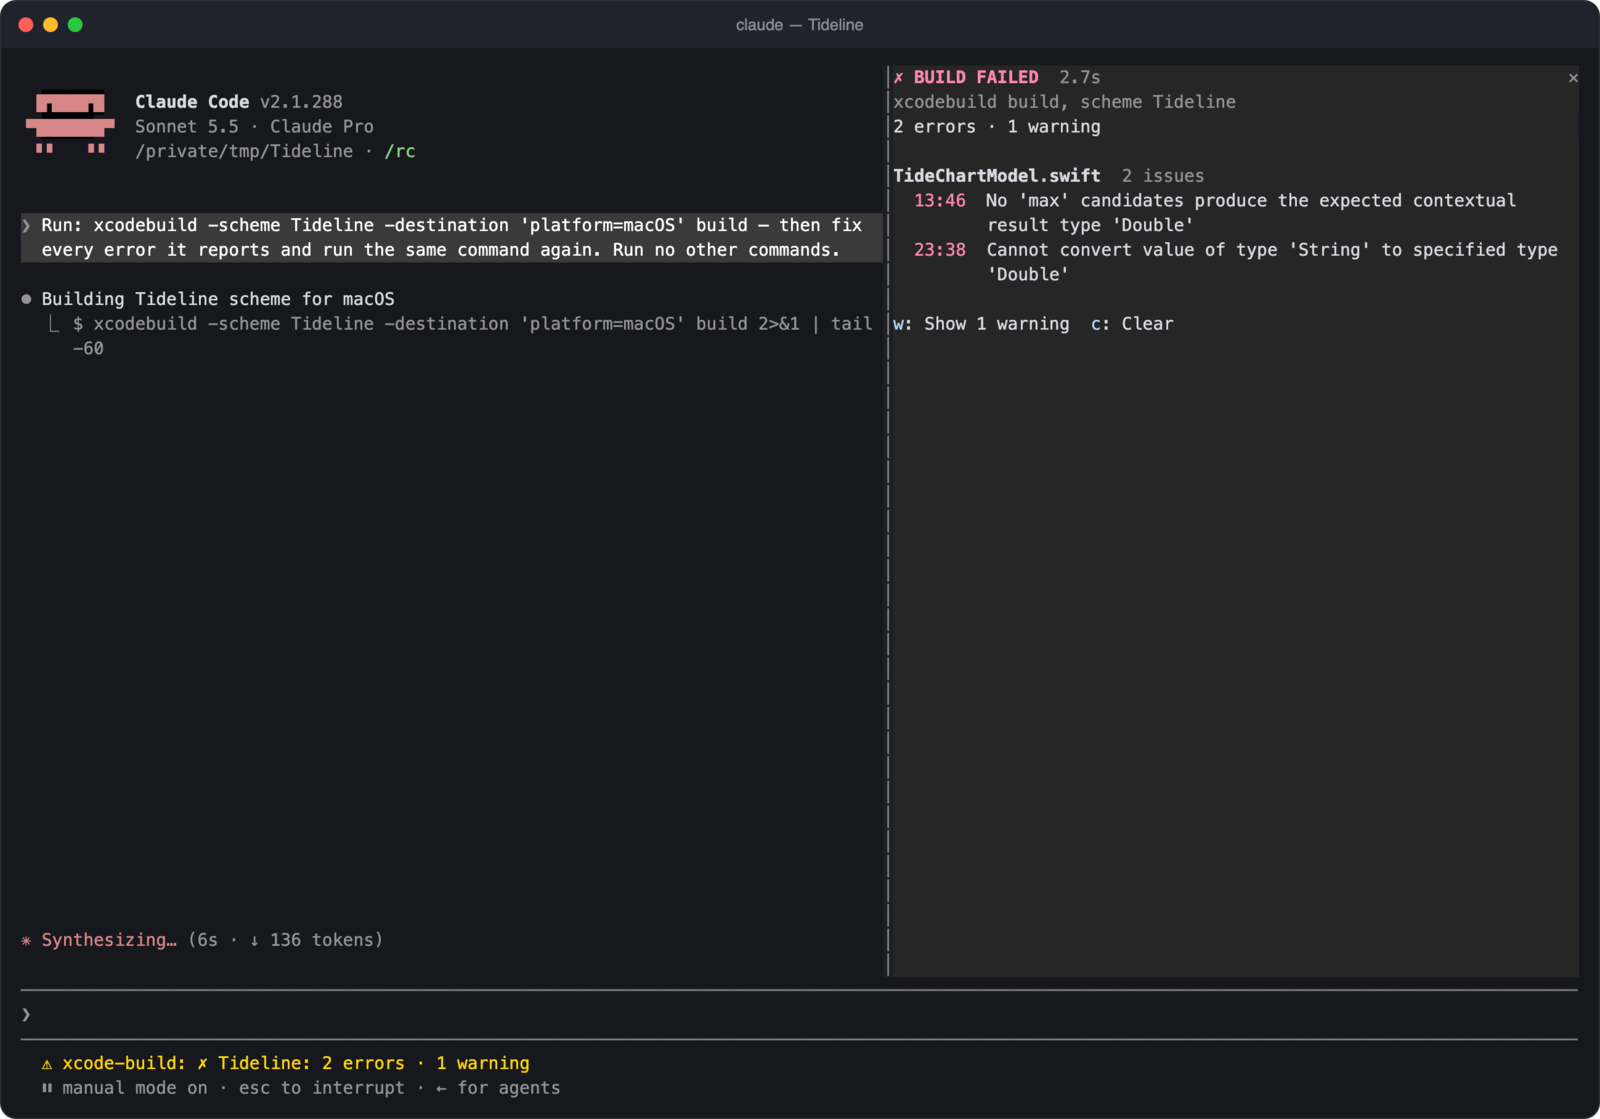
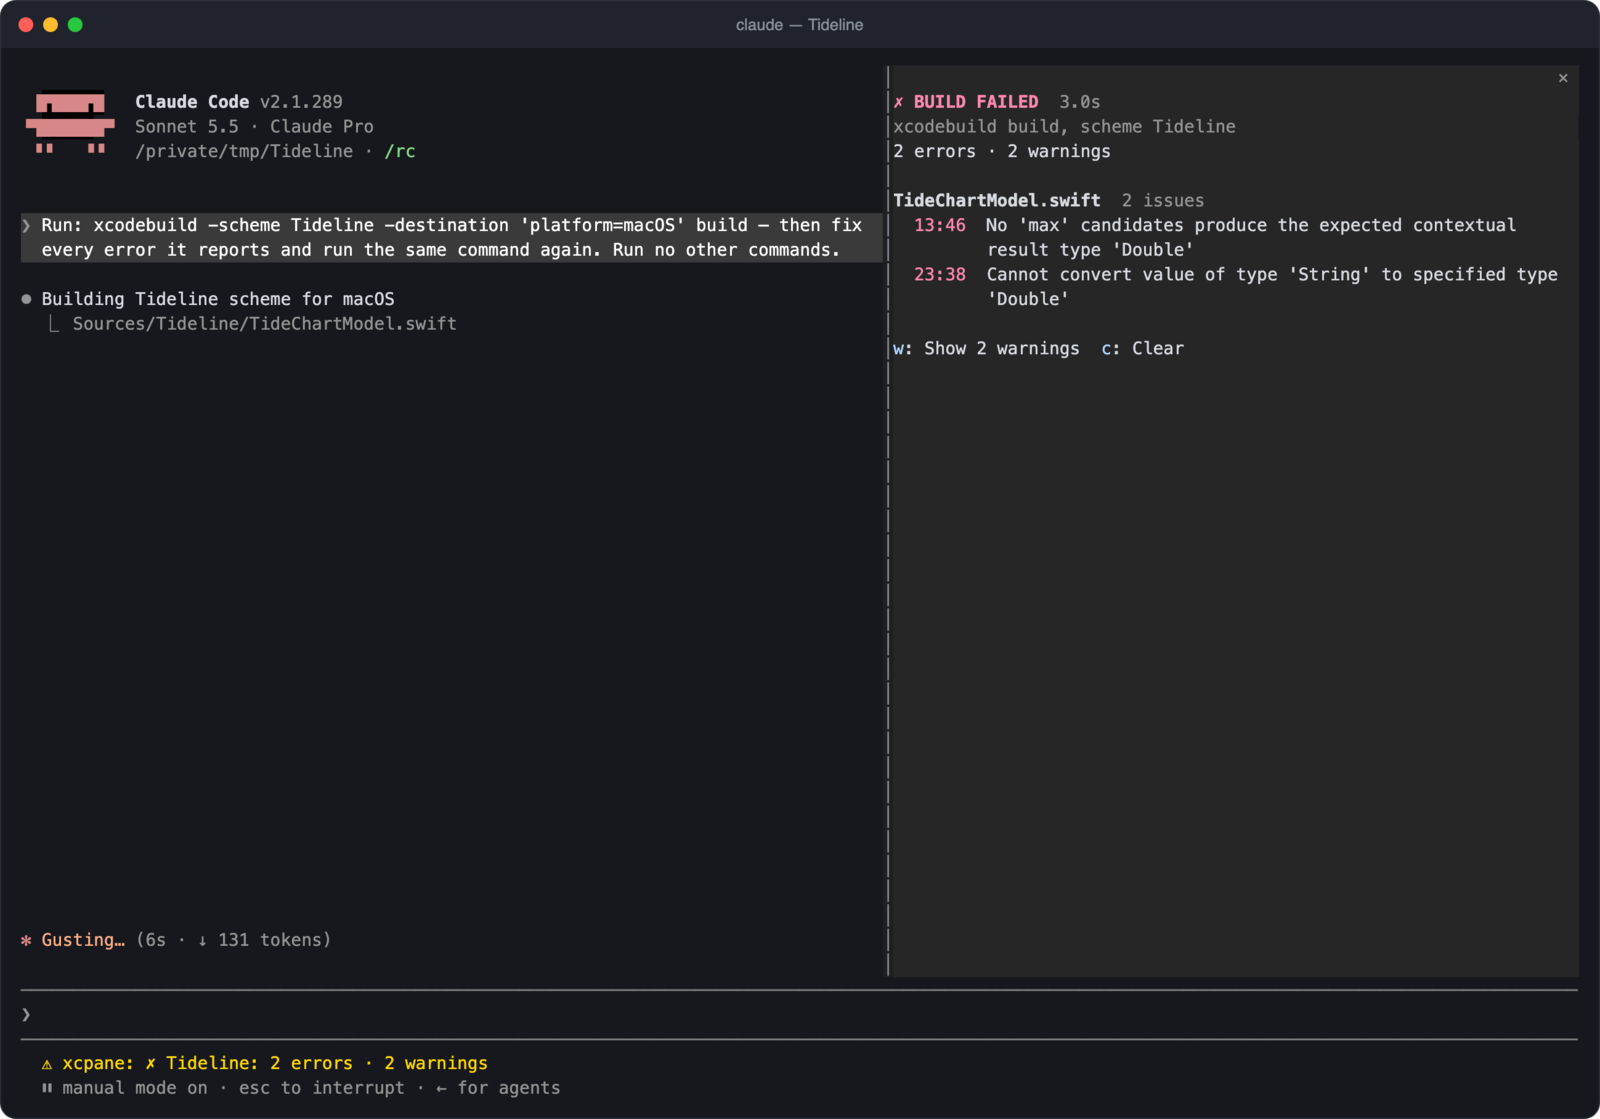
Rename the mod and repository to xcpane
The command is now /xcpane and the details tool mcp__xcpane__details.
README media and numbers are refreshed from new captures.

Claude-Session: https://claude.ai/code/session_01BuFCe7dEKhZmMrBzXvpi6e

diff --git a/hooks/register.tsx b/hooks/register.tsx
@@ -21,12 +21,12 @@ import { parseMcpBuild, parseMcpTests, structuredOf } from './mcp'
 import { findInvocations, withResultBundle } from './shell'
 import { parseBuildResults, parseCoverage, parseTestDetails, parseTestSummary } from './xcresult'
 
-const PANE = 'xcode-build'
+const PANE = 'xcpane'
 const TITLE = 'Xcode build'
-const COMMAND = 'xcode-build'
-const DETAILS_TOOL = 'mcp__xcode-build__details'
+const COMMAND = 'xcpane'
+const DETAILS_TOOL = 'mcp__xcpane__details'
 // A pattern, since the tool's name is not among the tools the type declarations list.
-const DETAILS_TOOL_NAMED = /^mcp__xcode-build__details$/
+const DETAILS_TOOL_NAMED = /^mcp__xcpane__details$/
 const XCODE_MCP_TOOL = /^mcp__.+__(BuildProject|RunAllTests|RunSomeTests)$/
 const KEPT_BUILDS = 20
 const KEPT_ISSUES = 300
@@ -35,9 +35,9 @@ const ROW_ERRORS = 3
 
 type AutoOpen = 'always' | 'failure' | 'never'
 
-const builds = atom({ plugin: 'xcode-build', key: 'builds' } as const, [])
-const isShowingWarnings = atom({ plugin: 'xcode-build', key: 'isShowingWarnings' } as const, false)
-const now = atom({ plugin: 'xcode-build', key: 'now' } as const, 0)
+const builds = atom({ plugin: 'xcpane', key: 'builds' } as const, [])
+const isShowingWarnings = atom({ plugin: 'xcpane', key: 'isShowingWarnings' } as const, false)
+const now = atom({ plugin: 'xcpane', key: 'now' } as const, 0)
 
 const GLYPH = { running: '●', succeeded: '✓', failed: '✗', cancelled: '◌' } as const
 const TONE = { running: 'warning', succeeded: 'success', failed: 'error', cancelled: undefined } as const
@@ -239,7 +239,7 @@ export const register: Register = (on, options) => {
       bundle = isStale ? null : invocation.resultBundlePath
     } else if (wantsBundle && isAlone && !invocation.hasResultBundleFlag && invocation.action !== 'clean') {
       const temporary = ((await $.env.get('TMPDIR')) ?? '/tmp').replace(/\/+$/, '')
-      bundle = `${temporary}/claude-xcode-build/${id.replace(/[^A-Za-z0-9_-]/g, '')}.xcresult`
+      bundle = `${temporary}/xcpane/${id.replace(/[^A-Za-z0-9_-]/g, '')}.xcresult`
       command = withResultBundle(e.command, invocation, bundle)
       isOwnBundle = true
     }

diff --git a/tests/mod.test.tsx b/tests/mod.test.tsx
@@ -14,12 +14,12 @@ import {
   TEST_DETAILS,
 } from './fixtures'
 
-const PLUGIN = 'xcode-build'
+const PLUGIN = 'xcpane'
 const SURFACES = ['terminal', 'desktop'] as const
 const PANE = {
   plugin: PLUGIN,
   component: 'Pane',
-  requestId: 'xcode-build',
+  requestId: 'xcpane',
   props: {
     title: 'Xcode build',
     isFocused: false,
@@ -144,9 +144,9 @@ test('a failing build: the bundle is asked for, the pane lists the errors, Claud
 
   expect(ran.isError).toBe(true)
   expect(seen.commands).toEqual([
-    "xcodebuild -scheme Demo build -resultBundlePath '/tmp/t/claude-xcode-build/toolu_1.xcresult' 2>&1",
+    "xcodebuild -scheme Demo build -resultBundlePath '/tmp/t/xcpane/toolu_1.xcresult' 2>&1",
   ])
-  expect(seen.opened).toEqual(['xcode-build'])
+  expect(seen.opened).toEqual(['xcpane'])
   expect(seen.statuses.at(-1)).toBe('✗ Demo: 1 error · 1 warning')
   expect(seen.ran).toContain('/bin/rm -rf')
 
@@ -327,11 +327,11 @@ test('tests run through Xcode\'s MCP server show the failed and the slowest test
 test('the details tool lists the warnings a summary only counted', async ($, on) => {
   world(on, { bash: failed(FAILED_BUILD_LOG), bundle: { 'build-results': FAILED_BUILD_RESULTS } })
 
-  const before = await callTool($, { tool: 'mcp__xcode-build__details', tool_use_id: 'toolu_d0' })
+  const before = await callTool($, { tool: 'mcp__xcpane__details', tool_use_id: 'toolu_d0' })
   expect(before.result).toBe('No build has finished in this session yet.')
 
   await $.tool.call({ tool: 'Bash', command: 'xcodebuild -scheme Demo build', tool_use_id: 'toolu_d1' })
-  const after = await callTool($, { tool: 'mcp__xcode-build__details', show: 'warnings', tool_use_id: 'toolu_d2' })
+  const after = await callTool($, { tool: 'mcp__xcpane__details', show: 'warnings', tool_use_id: 'toolu_d2' })
 
   expect(after.result).toContain("Maths.swift:4:26: warning: 'hello()' is deprecated: use greet(_:)")
   expect(after.result).not.toContain(': error: ')

diff --git a/tests/parse.test.ts b/tests/parse.test.ts
@@ -342,7 +342,7 @@ describe('condense', () => {
     logLines: 288,
     isCondensed: false,
   }
-  const settings = { warnings: 'count', exitCode: 65, isLogCut: false, detailsTool: 'mcp__xcode-build__details' } as const
+  const settings = { warnings: 'count', exitCode: 65, isLogCut: false, detailsTool: 'mcp__xcpane__details' } as const
 
   test('lists every error and counts the warnings', () => {
     expect(condense(build, settings)).toBe(
@@ -352,9 +352,9 @@ describe('condense', () => {
         '',
         `${MATHS}:3:31: error: Cannot convert value of type 'Int' to specified type 'String'`,
         '',
-        '1 warning not listed: Maths.swift (1). Call mcp__xcode-build__details to list them.',
+        '1 warning not listed: Maths.swift (1). Call mcp__xcpane__details to list them.',
         '',
-        "[xcode-build mod: summarised from Xcode's result bundle; 288 lines of raw log omitted.]",
+        "[xcpane: summarised from Xcode's result bundle; 288 lines of raw log omitted.]",
       ].join('\n'),
     )
   })

diff --git a/hooks/format.ts b/hooks/format.ts
@@ -142,7 +142,7 @@ export const condense = (build: Build, settings: CondenseSettings): string => {
   }
 
   const from = build.source === 'xcresult' ? "Xcode's result bundle" : 'the build log'
-  const notes = [`[xcode-build mod: summarised from ${from}; ${plural(build.logLines, 'line')} of raw log omitted.`]
+  const notes = [`[xcpane: summarised from ${from}; ${plural(build.logLines, 'line')} of raw log omitted.`]
 
   if (settings.isLogCut && build.source === 'log') {
     notes.push('The captured log was cut short, so later diagnostics may be missing.')

diff --git a/types/index.d.ts b/types/index.d.ts
@@ -49,7 +49,7 @@ export type Build = {
 
 declare module 'claude-code' {
   interface PluginState {
-    'xcode-build': {
+    'xcpane': {
       builds: Build[]
       isShowingWarnings: boolean
       now: number

diff --git a/README.md b/README.md
@@ -1,12 +1,12 @@
-# xcode-build
+# xcpane
 
-[![GitHub stars](https://img.shields.io/github/stars/griches/claude-xcode-mod?style=social)](https://github.com/griches/claude-xcode-mod)
-[![CI](https://github.com/griches/claude-xcode-mod/actions/workflows/ci.yml/badge.svg)](https://github.com/griches/claude-xcode-mod/actions/workflows/ci.yml)
-[![License](https://img.shields.io/github/license/griches/claude-xcode-mod.svg)](LICENSE)
+[![GitHub stars](https://img.shields.io/github/stars/griches/xcpane?style=social)](https://github.com/griches/xcpane)
+[![CI](https://github.com/griches/xcpane/actions/workflows/ci.yml/badge.svg)](https://github.com/griches/xcpane/actions/workflows/ci.yml)
+[![License](https://img.shields.io/github/license/griches/xcpane.svg)](LICENSE)
 
 A [Claude Code](https://code.claude.com) mod that turns `xcodebuild` and `swift build` output into a live pane of errors grouped by file, and hands Claude the diagnostics instead of the raw log.
 
-![The xcode-build pane showing a failed build](docs/xcode-build.gif)
+![The pane showing a failed build](docs/xcpane.gif)
 
 ## Why
 
@@ -17,7 +17,7 @@ Measured on Xcode 27.1 with a five-file Swift package and three compile errors:
 | | Without the mod | With the mod |
 | --- | --- | --- |
 | Raw log | 295 lines, 47 KB | the same |
-| What Claude reads | 10,039 characters, none of them an error message | 499 characters, every reported error with its file, line and column |
+| What Claude reads | 10,039 characters, none of them an error message | 570 characters, every reported error with its file, line and column |
 
 Repeated ten times, the result without the mod had no error message in it in eight runs. The method, the demo project and a script to reproduce it are in [`Benchmarks/`](Benchmarks/README.md).
 
@@ -28,7 +28,7 @@ Repeated ten times, the result without the mod had no error message in it in eig
 - **Reads Xcode's result bundle.** Adds `-resultBundlePath` to `xcodebuild` commands that name none, then reads errors, warnings and test failures from the bundle with `xcresulttool`. The bundle goes to the temporary folder and is deleted once read.
 - **Condenses what Claude reads.** The tool result becomes the verdict, every error as `file:line:column: error: message`, the failed tests, and a count of warnings per file. The transcript keeps the raw output.
 - **Shows a pane.** Errors grouped by file, failed tests, the slowest tests, line coverage when the run collected it, a toggle for warnings, a running timer while a build is in flight, and the last few builds.
-- **Gives Claude a tool for the rest.** The summary counts warnings without listing them, so the mod adds a tool, `mcp__xcode-build__details`, that Claude can call for every warning, error and failed test of the last build. The summary tells Claude it is there.
+- **Gives Claude a tool for the rest.** The summary counts warnings without listing them, so the mod adds a tool, `mcp__xcpane__details`, that Claude can call for every warning, error and failed test of the last build. The summary tells Claude it is there.
 - **Follows builds through Xcode's MCP too.** When Claude builds or tests through Apple's Xcode MCP server (`BuildProject`, `RunAllTests`, `RunSomeTests`), the result is left as it is and shown in the same pane, status line and toast.
 - **Sets the status line** on a failure and shows a toast on a success.
 - **Draws a compact transcript row.** The verdict and the first three errors, in place of the raw log. This applies to a build drawn as its own row; in the fullscreen layout Claude Code folds shell commands into one line ("Ran 1 shell command"), and the row is not drawn there.
@@ -41,7 +41,7 @@ Xcode ships its own MCP server (`xcrun mcpbridge`) that lets Claude build, test 
 
 If Claude builds through that server, you don't need this mod's log condensing: the MCP already returns structured results. The mod still shows those builds in its pane. The two solve the problem at different points:
 
-| | Apple's Xcode MCP | xcode-build |
+| | Apple's Xcode MCP | xcpane |
 | --- | --- | --- |
 | Fixes | Builds Claude runs through the MCP's build tool | Builds Claude runs as `xcodebuild` or `swift build` in Bash |
 | Setup | Enable in Xcode; headless mode needs sudo and per-agent approval | Clone and point Claude Code at the folder |
@@ -72,7 +72,7 @@ An MCP server returns data to the model and cannot draw interface in Claude Code
 
 [xcsift](https://github.com/ldomaradzki/xcsift) and [xcbeautify](https://github.com/cpisciotta/xcbeautify) are command-line tools you pipe `xcodebuild` output through. xcsift is built for coding agents and does more than this mod in several places; this mod's difference is that it lives inside Claude Code.
 
-| | xcode-build | xcsift | xcbeautify |
+| | xcpane | xcsift | xcbeautify |
 | --- | --- | --- | --- |
 | What it is | A Claude Code mod | A command-line tool | A command-line tool |
 | Made for | Claude Code | Coding agents and CI | People and CI |
@@ -95,14 +95,14 @@ If you use several agents, or want the same output in CI, xcsift is the better f
 Clone the repository somewhere it can stay:
 
 ```sh
-git clone https://github.com/griches/claude-xcode-mod.git ~/.claude/mods/claude-xcode-mod
+git clone https://github.com/griches/xcpane.git ~/.claude/mods/xcpane
 ```
 
 ### Try it for one session
 
 ```sh
 cd /path/to/your/xcode/project
-claude --plugin-dir ~/.claude/mods/claude-xcode-mod
+claude --plugin-dir ~/.claude/mods/xcpane
 ```
 
 ### Load it in every session
@@ -112,7 +112,7 @@ Add the folder to `CLAUDE_CODE_PLUGIN_DIRS` in the `env` block of `~/.claude/set
 ```json
 {
   "env": {
-    "CLAUDE_CODE_PLUGIN_DIRS": "~/.claude/mods/claude-xcode-mod"
+    "CLAUDE_CODE_PLUGIN_DIRS": "~/.claude/mods/xcpane"
   }
 }
 ```
@@ -121,7 +121,7 @@ If the variable already names other folders, separate them with `:`. Restart Cla
 
 ### Check it loaded (optional)
 
-Type `/xcode-build` in a session. If the mod is loaded, the pane opens and says "No builds yet." You only need to do this once, to confirm the install.
+Type `/xcpane` in a session. If the mod is loaded, the pane opens and says "No builds yet." You only need to do this once, to confirm the install.
 
 ## Use
 
@@ -135,14 +135,14 @@ Each time Claude builds:
 
 - Claude reads the parsed errors in place of the raw log.
 - The status line shows a failure, and a toast shows a success.
-- The pane opens by itself on terminals at least 144 columns wide. On narrower terminals it stays closed until you type `/xcode-build`, and then shows above the prompt.
+- The pane opens by itself on terminals at least 144 columns wide. On narrower terminals it stays closed until you type `/xcpane`, and then shows above the prompt.
 
 The commands and keys are only for the pane:
 
 | What | How |
 | --- | --- |
-| Open the pane | `/xcode-build` |
-| Forget the builds | `/xcode-build clear` |
+| Open the pane | `/xcpane` |
+| Forget the builds | `/xcpane clear` |
 | Show or hide warnings | Focus the pane (`ctrl+x` then `tab`), press `w` |
 | Clear from the pane | Focus the pane, press `c` |
 | Close the pane | `ctrl+x` then `x`, or click its `✕` |
@@ -161,20 +161,20 @@ Each option is a row in Claude Code's config menu (`/config`).
 
 ## Permissions
 
-The mod changes the command Claude runs by appending one flag: `-resultBundlePath '<temporary folder>/claude-xcode-build/<id>.xcresult'`. An allow rule such as `Bash(xcodebuild:*)` still matches. A rule that names one exact command will no longer match and Claude Code will ask; set `resultBundle` to `false` to leave commands untouched.
+The mod changes the command Claude runs by appending one flag: `-resultBundlePath '<temporary folder>/xcpane/<id>.xcresult'`. An allow rule such as `Bash(xcodebuild:*)` still matches. A rule that names one exact command will no longer match and Claude Code will ask; set `resultBundle` to `false` to leave commands untouched.
 
 ## Update and uninstall
 
 ```sh
-git -C ~/.claude/mods/claude-xcode-mod pull
+git -C ~/.claude/mods/xcpane pull
 ```
 
 To uninstall, remove the folder from `CLAUDE_CODE_PLUGIN_DIRS` and delete the clone.
 
 ## Troubleshooting
 
-- **`/xcode-build` is not a command.** The mod did not load. Run `claude plugin validate ~/.claude/mods/claude-xcode-mod`, check the path in your settings, and check `claude --version`.
-- **The pane does not open by itself.** Your terminal is narrower than 144 columns, or `autoOpen` is not `always`. Type `/xcode-build`.
+- **`/xcpane` is not a command.** The mod did not load. Run `claude plugin validate ~/.claude/mods/xcpane`, check the path in your settings, and check `claude --version`.
+- **The pane does not open by itself.** Your terminal is narrower than 144 columns, or `autoOpen` is not `always`. Type `/xcpane`.
 - **A build is not picked up.** See Limits. `claude --debug` logs why a hook was skipped.
 - **Claude still reads the raw log.** The mod only condenses when it found errors or failed tests, or the build succeeded. A failure with no diagnostics passes through unchanged.
 

diff --git a/Benchmarks/README.md b/Benchmarks/README.md
@@ -10,12 +10,12 @@ Each run costs a few cents on your Claude account. To compare, load the mod with
 
 ## Results
 
-Measured on 3 and 4 October 2026 with Claude Code 2.1.288 and Xcode 27.1.
+Measured on 3 and 4 October 2026 with Claude Code 2.1.288, Xcode 27.1 and xcpane 0.2.0.
 
 | | Without the mod | With the mod |
 | --- | --- | --- |
 | Raw `xcodebuild` log | 295 lines, 47 KB | the same |
-| Characters Claude read | 10,039 or 10,040 in every run | 499 |
+| Characters Claude read | 10,039 or 10,040 in every run | 570 |
 | Runs with no error message in what Claude read | 8 of 10 | 0 |
 
 In the other two runs some error text survived. Claude Code keeps the start and the end of a long failing output and cuts the middle; `xcodebuild` compiles files in parallel, so where the errors fall in the log changes from run to run.
